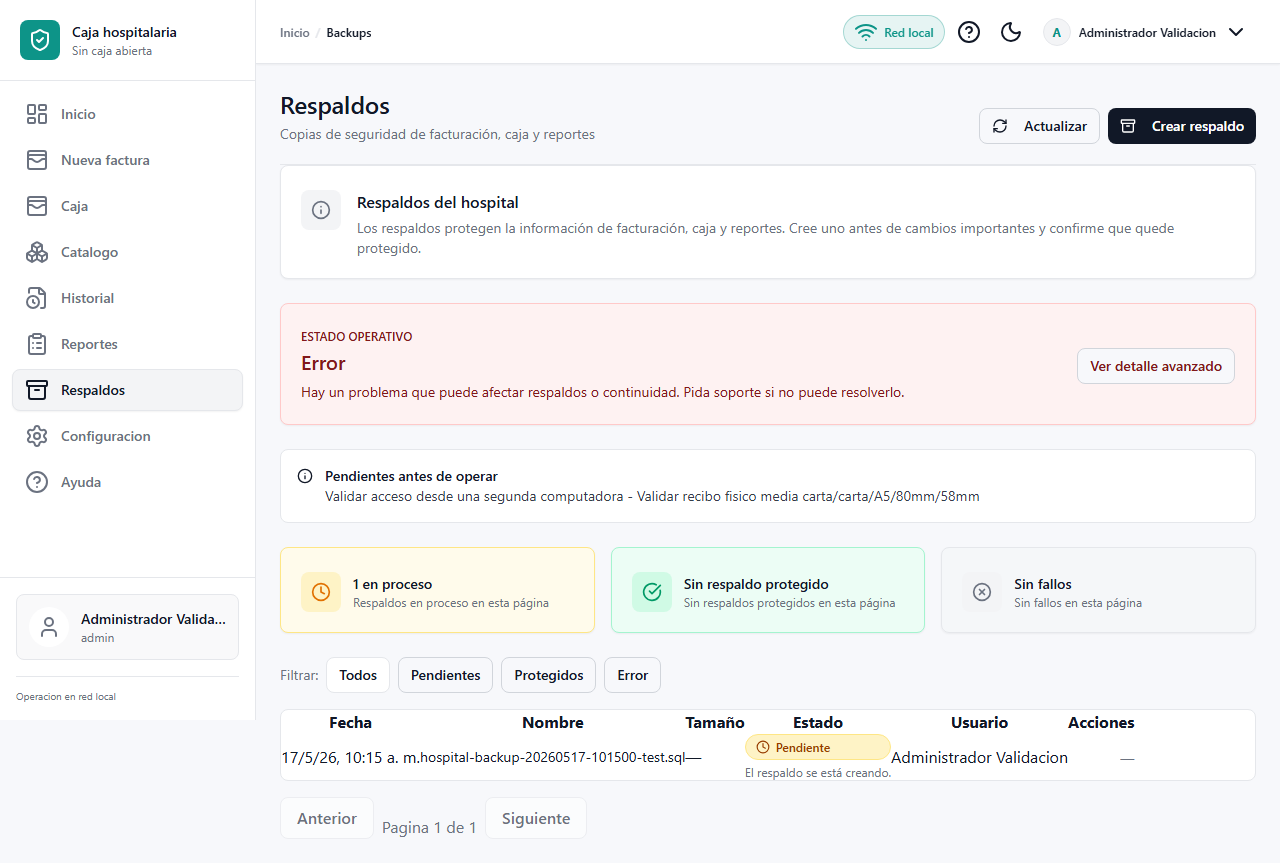
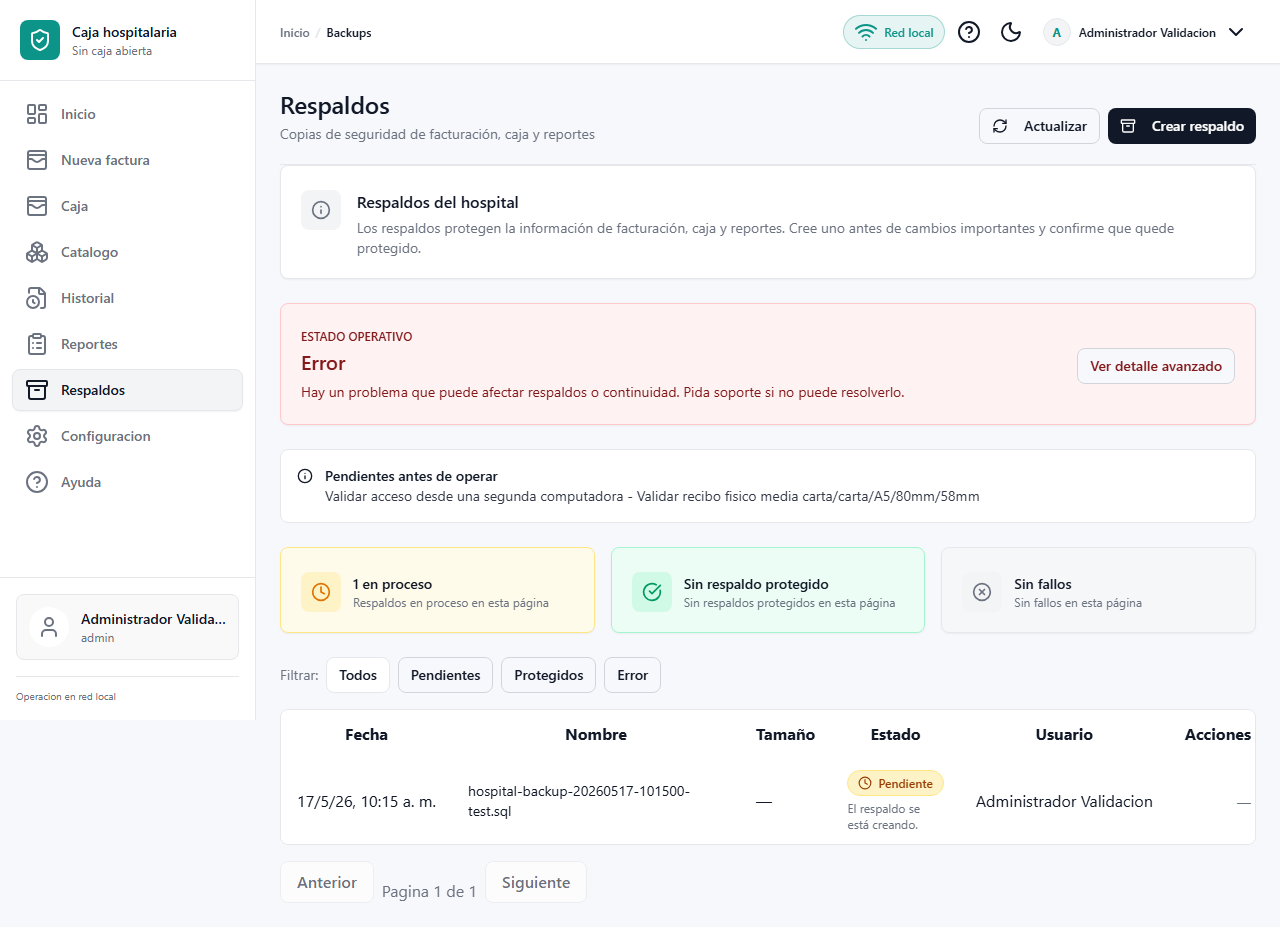
fix(backups): keep evidence table readable

diff --git a/frontend/src/features/backups/BackupsView.tsx b/frontend/src/features/backups/BackupsView.tsx
@@ -705,15 +705,15 @@ export function BackupsView({ user, onStatus }: BackupsViewProps) {
               ))}
             </div>
 
-            <Table>
+            <Table className="min-w-[960px]">
               <TableHeader>
                 <TableRow>
-                  <TableHead className="w-40 whitespace-nowrap">Fecha</TableHead>
-                  <TableHead className="min-w-64">Nombre</TableHead>
-                  <TableHead className="w-24 whitespace-nowrap">Tamaño</TableHead>
-                  <TableHead>Estado</TableHead>
-                  <TableHead className="w-44 whitespace-nowrap">Usuario</TableHead>
-                  <TableHead className="text-right">Acciones</TableHead>
+                  <TableHead className="w-40 whitespace-nowrap px-4 py-3">Fecha</TableHead>
+                  <TableHead className="min-w-72 px-4 py-3">Nombre</TableHead>
+                  <TableHead className="w-24 whitespace-nowrap px-4 py-3">Tamaño</TableHead>
+                  <TableHead className="px-4 py-3">Estado</TableHead>
+                  <TableHead className="w-44 whitespace-nowrap px-4 py-3">Usuario</TableHead>
+                  <TableHead className="px-4 py-3 text-right">Acciones</TableHead>
                 </TableRow>
               </TableHeader>
               <TableBody>
@@ -726,10 +726,10 @@ export function BackupsView({ user, onStatus }: BackupsViewProps) {
                 )}
                 {backupsList.map((backup) => (
                   <TableRow key={backup.id}>
-                    <TableCell className="whitespace-nowrap">{formatDate(backup.completed_at ?? backup.created_at)}</TableCell>
-                    <TableCell className="min-w-64 break-all text-sm">{backup.filename}</TableCell>
-                    <TableCell className="whitespace-nowrap">{formatBytes(backup.size_bytes)}</TableCell>
-                    <TableCell>
+                    <TableCell className="whitespace-nowrap px-4 py-3">{formatDate(backup.completed_at ?? backup.created_at)}</TableCell>
+                    <TableCell className="min-w-72 break-words px-4 py-3 text-sm">{backup.filename}</TableCell>
+                    <TableCell className="whitespace-nowrap px-4 py-3">{formatBytes(backup.size_bytes)}</TableCell>
+                    <TableCell className="px-4 py-3">
                       <div className="flex flex-col gap-1">
                         <BackupStatusBadge status={backup.status as 'pending' | 'success' | 'failed'} />
                         <span className="text-xs text-muted-foreground">
@@ -742,8 +742,8 @@ export function BackupsView({ user, onStatus }: BackupsViewProps) {
                         )}
                       </div>
                     </TableCell>
-                    <TableCell className="whitespace-nowrap">{backup.creator?.name ?? 'Sistema'}</TableCell>
-                    <TableCell className="text-right">
+                    <TableCell className="whitespace-nowrap px-4 py-3">{backup.creator?.name ?? 'Sistema'}</TableCell>
+                    <TableCell className="px-4 py-3 text-right">
                       {canDownload && backup.status === 'success' ? (
                         <Button
                           type="button"
